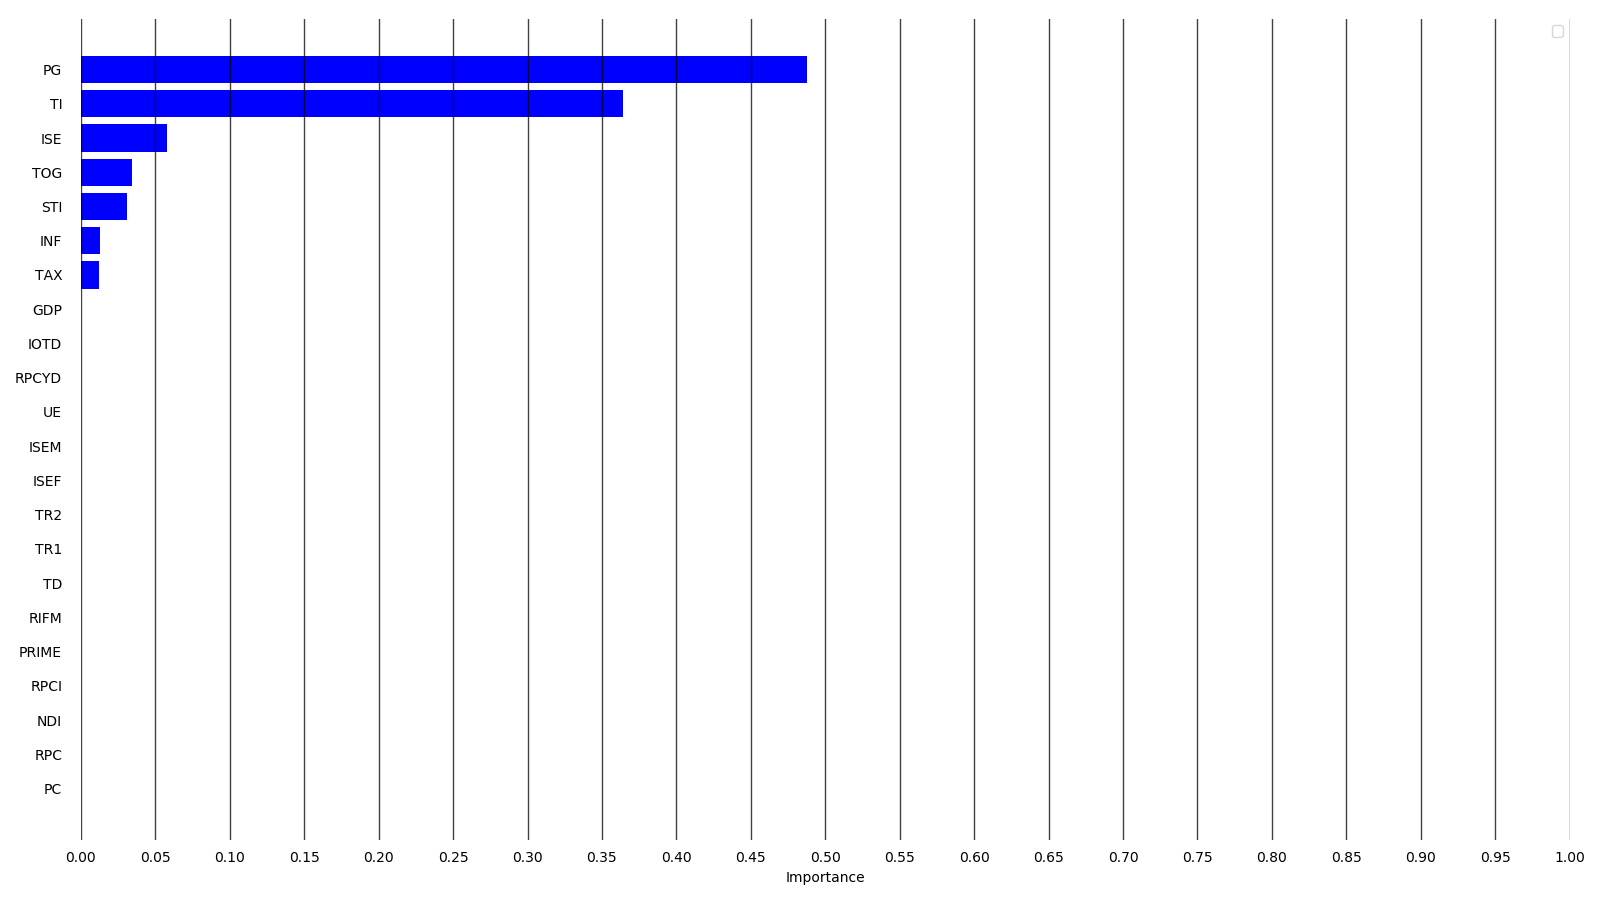
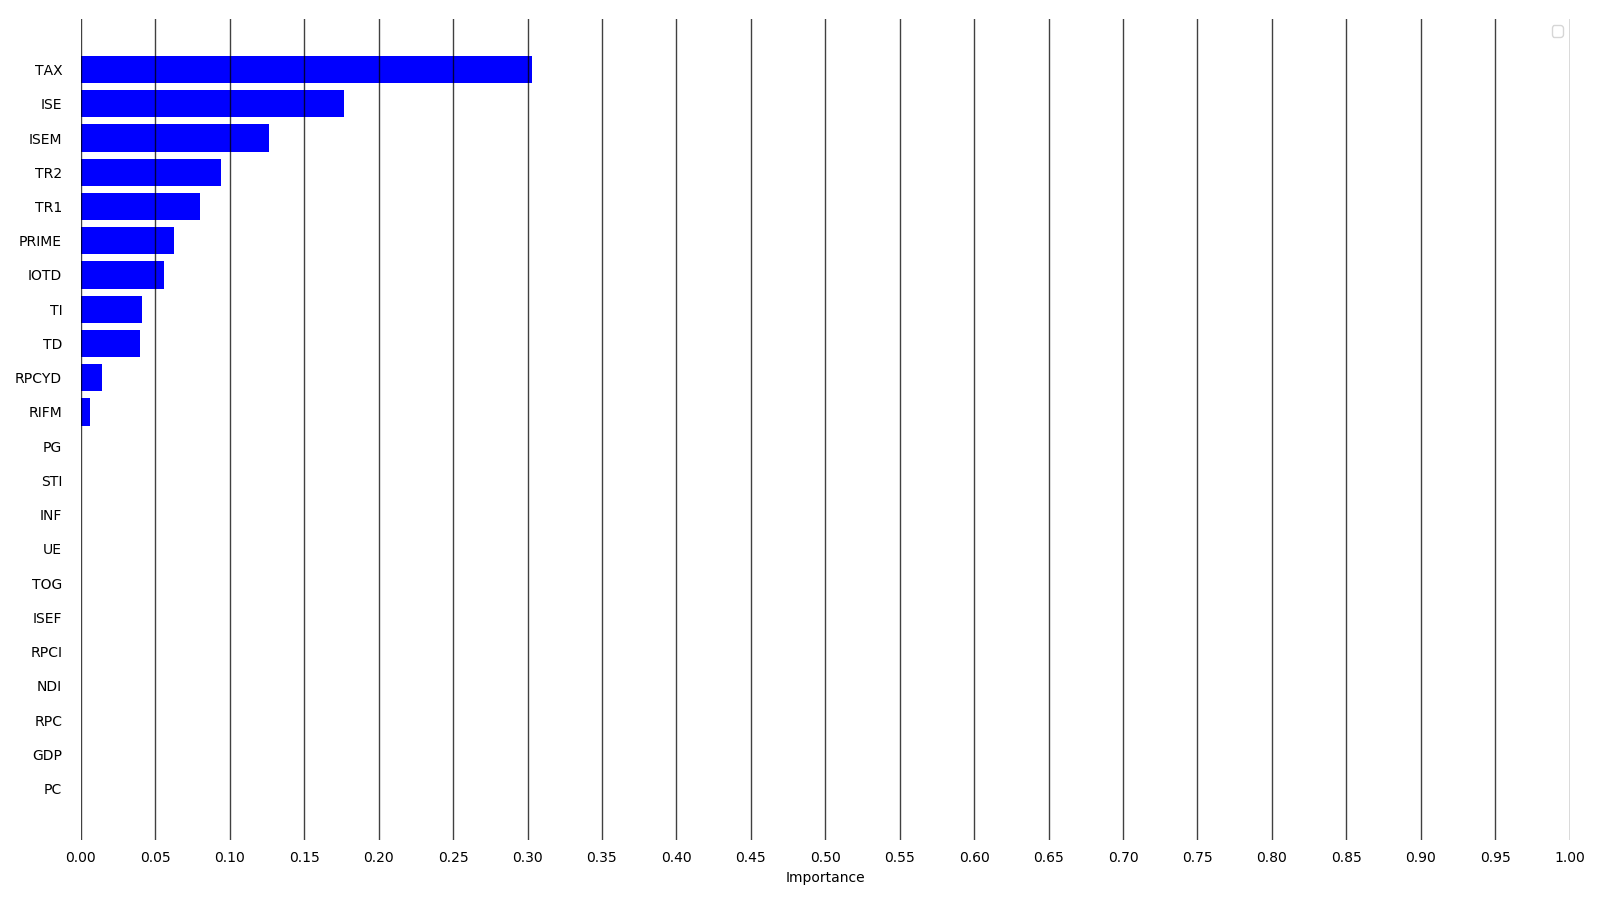
last version

diff --git a/plot_manager.py b/plot_manager.py
@@ -14,7 +14,7 @@ class PlotManager:
     results_folder = os.path.join(os.path.dirname(__file__), "plot")
 
     markers = ["o", "x", "^", "P", "v", "<", ">"]
-    colors = ["g", "b", "r", "c", "m", "y", "k"]
+    colors = ["k", "b", "r", "g", "c", "m", "y", ]
 
     @staticmethod
     def analyze_data(df, model_type):
@@ -26,9 +26,11 @@ class PlotManager:
         plt.close()
 
         corr = df.corr()
+        for name in list(corr):
+            df[name] = df[name].abs()
         sns.heatmap(corr,
-                    cmap='hot',
-                    vmin=-1,
+                    cmap='coolwarm',
+                    vmin=0,
                     vmax=1)
         plt.savefig(os.path.join(PlotManager.results_folder,
                                  "data_features_heat_map_{}.png".format(model_type)))
@@ -123,6 +125,81 @@ class PlotManager:
                 data_file.write("{},{:.2f}\n".format(start_year+i, y[i]))
 
     @staticmethod
+    def black_market_size_from_file(file_path: str,
+                                    model_name: int):
+
+        x = []
+        y = []
+        with open(file_path, "r") as data_file:
+            is_first = True
+            for line in data_file.readlines():
+                if is_first:
+                    is_first = False
+                    continue
+                items = line.split(",")
+                x.append(int(items[0]))
+                y.append(float(items[1]))
+
+        fig, ax = plt.subplots()
+        plt.bar(x,
+                 y,
+                width=0.7,
+                color="black")
+        plt.xlabel("Year (t)")
+        plt.ylabel("The share of the non-observed economy out of GDP")
+        plt.ylim(10, max(y) * 1.05)
+        plt.legend()
+        ax.xaxis.set_ticks_position('none')
+        ax.yaxis.set_ticks_position('none')
+        plt.savefig(os.path.join(PlotManager.results_folder,
+                                 "black_market_size_model_from_file_{}.png".format(model_name)))
+        plt.close()
+
+    @staticmethod
+    def black_market_size_from_file(file_path: str,
+                                    model_name: int):
+
+        x = []
+        y1 = []
+        y2 = []
+        y3 = []
+        y4 = []
+        with open(file_path, "r") as data_file:
+            is_first = True
+            for line in data_file.readlines():
+                if is_first:
+                    is_first = False
+                    continue
+                items = line.split(",")
+                x.append(int(items[0]))
+                y1.append(float(items[1]))
+                y2.append(float(items[2]))
+                y3.append(float(items[3]))
+                y4.append(float(items[1]) - float(items[2]) - float(items[3]))
+        y = [y1, y2, y3, y4]
+        y2_bottom = [y2[i] + y3[i] for i in range(len(y2))]
+
+        fig, ax = plt.subplots()
+        labels = ["Taxes", "Crime", "Self Employment"]
+        width = 0.75
+        for i in range(1, 4):
+            plt.bar(x,
+                    y[i],
+                    bottom=None if i == 1 else y2 if i == 2 else y2_bottom,
+                    width=width,
+                    color=PlotManager.colors[i],
+                    label=labels[i-1])
+        plt.xlabel("Year (t)")
+        plt.ylabel("The share of the non-observed economy out of GDP")
+        plt.ylim(0, 25)
+        plt.legend()
+        ax.xaxis.set_ticks_position('none')
+        ax.yaxis.set_ticks_position('none')
+        plt.savefig(os.path.join(PlotManager.results_folder,
+                                 "black_market_size_model_from_file_break_down{}.png".format(model_name)))
+        plt.close()
+
+    @staticmethod
     def get_black_market_size(rcw_full_model: float,
                               rcw_without_tax_model: float,
                               rcw_without_crime_model: float,
@@ -176,3 +253,8 @@ class PlotManager:
         fig.tight_layout()
         plt.savefig(os.path.join(PlotManager.results_folder, "feature_importance_{}.png".format(model_name)))
         plt.close()
+
+
+if __name__ == '__main__':
+    PlotManager.black_market_size_from_file(file_path=os.path.join(os.path.dirname(__file__), "data", "black_market_size_model_rfr.csv"),
+                                            model_name="rfr")

diff --git a/model.py b/model.py
@@ -38,7 +38,7 @@ class MLmodel:
     RFC = "RFC"
     LR = "lr"
 
-    REGRESS_MODELS = [LG, KNNR, DTR, RFR]
+    REGRESS_MODELS = [LABIB, RFR]
     CLASSIFY_MODELS = [LR, KNNC, DTC, RFC]
     # end - model names #
 
@@ -73,9 +73,9 @@ class MLmodel:
                           'min_samples_split': [5, 10, 15],
                           'ccp_alpha': [0, 0.01, 0.05, 0.1, 0.2]}
         elif self.model_name == MLmodel.LG:
-            self.model = LinearRegression(positive=True)
+            self.model = LinearRegression(positive=False)
         elif self.model_name == MLmodel.LABIB:
-            self.model = LabibModel()
+            self.model = LinearRegression(positive=True) #LabibModel()
         elif self.model_name == MLmodel.KNNR:
             self.model = KNeighborsRegressor()
             self.parms = {'n_neighbors': [3, 4, 5, 6, 7],
@@ -151,12 +151,34 @@ class MLmodel:
                     feature_importances_values = self.best_model.feature_importances_
                 except:
                     feature_importances_values = self.best_model.best_estimator_.feature_importances_
-            elif self.model_name in [MLmodel.LG, MLmodel.LABIB, MLmodel.LR]:
+            elif self.model_name in [MLmodel.LG, MLmodel.LR]:
                 feature_importances_values = [abs(val) for val in self.best_model.coef_]
                 normalizer = sum(feature_importances_values)
                 feature_importances_values = [val / normalizer for val in feature_importances_values]
             elif self.model_name in [MLmodel.KNNR, MLmodel.KNNC]:
                 feature_importances_values = [1 / len(x_columns) for i in range(len(x_columns))]
+            elif self.model_name == MLmodel.LABIB:
+                labib = LabibModel()
+                feature_importances = {
+                    "RPCYD": labib.coef_[1],
+                    "IOTD": labib.coef_[2],
+                    "PRIME": labib.coef_[3],
+                    "RIFM": labib.coef_[4],
+                    "TI": labib.coef_[5],
+                    "TD": labib.coef_[6],
+                    "TR1": labib.coef_[7],
+                    "TR2": labib.coef_[8],
+                    "TAX": labib.coef_[9],
+                    "ISEM": labib.coef_[10],
+                    "ISE": labib.coef_[9] + labib.coef_[10]
+                }
+                normalizer = sum([abs(value) for key, value in feature_importances.items()])
+                for i in range(len(feature_importances_names)):
+                    if feature_importances_names[i] not in feature_importances.keys():
+                        feature_importances[feature_importances_names[i]] = 0
+                    else:
+                        feature_importances[feature_importances_names[i]] = abs(feature_importances[feature_importances_names[i]]) / normalizer
+                return feature_importances
             for i in range(len(feature_importances_values)):
                 feature_importances[feature_importances_names[i]] = feature_importances_values[i]
         except:

diff --git a/main.py b/main.py
@@ -60,7 +60,7 @@ class Main:
         if is_direction:
             dfs = Main.fix_to_direction_data(dfs)
 
-        if False:
+        if True:
             for key, df in dfs.items():
                 print("Print analysis for {} data set".format(key))
                 new_df = df
@@ -79,7 +79,7 @@ class Main:
         with open(Main.ANSWER_FILE_PATH if not is_direction else Main.DIRECTION_ANSWER_FILE_PATH, "a") as answer_file:
             summery_predict_df = dfs["all"][["YEAR", "RCW"]]
             for model_name in MLmodel.REGRESS_MODELS if not is_direction else MLmodel.CLASSIFY_MODELS:
-                if False:
+                if True:
                     print("Start testing model: {}".format(model_name))
                     scores_mae = []
                     scores_mse = []
@@ -154,8 +154,7 @@ class Main:
                                               model_name=model_name,
                                               start_year=Main.START_YEAR)
 
-                if False:
-
+                if True:
                     feature_impt_dict = predictor.get_feature_importance(x_columns=list(x.columns))
                     # save a bar print
                     PlotManager.feature_importance(feature_name_val=feature_impt_dict,
@@ -172,17 +171,17 @@ class Main:
                                               feature_impt_dict,
                                               predictor.get_params()))
 
-                y_list = []
-                names = []
-                for name in list(summery_predict_df):
-                    if "RCW" in name:
-                        y_list.append(list(summery_predict_df[name]))
-                        names.append(name)
+            y_list = []
+            names = []
+            for name in list(summery_predict_df):
+                if "RCW" in name:
+                    y_list.append(list(summery_predict_df[name]))
+                    names.append(name)
 
-                PlotManager.plot_compare(x=[Main.START_YEAR + i for i in range(Main.END_YEAR - Main.START_YEAR + 1)],
-                                         y_list=y_list,
-                                         models_names=names,
-                                         train_size=Main.MAX_SAMPLES_TO_TRAIN)
+            PlotManager.plot_compare(x=[Main.START_YEAR + i for i in range(Main.END_YEAR - Main.START_YEAR + 1)],
+                                     y_list=y_list,
+                                     models_names=names,
+                                     train_size=Main.MAX_SAMPLES_TO_TRAIN)
 
     @staticmethod
     def fix_to_direction_data(dfs) -> dict:
